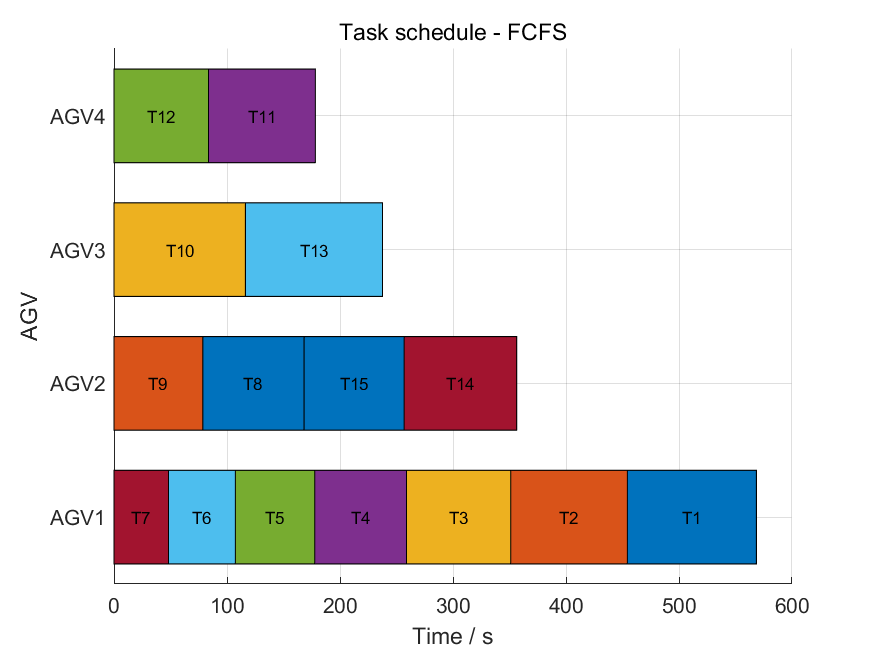
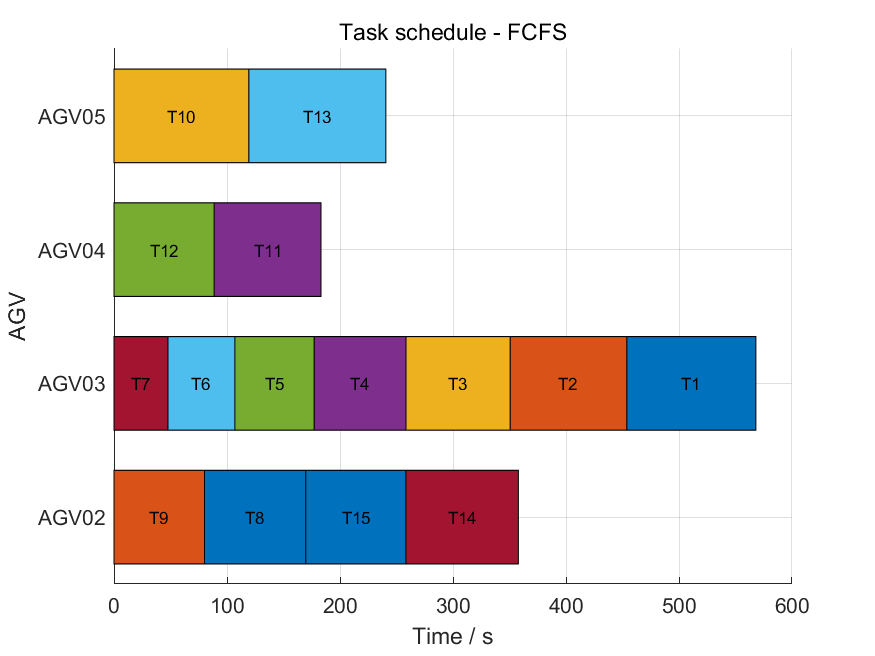
配置实际 AGV：02、03、04、05 的初始站点分别为 2、4、0、3；各车独立记录状态，任务分配表和图表显示实际编号。 清理提交内容：新增 .gitignore，过滤运行结果、日志和临时文件；取消 results/ 中 12 个文件的跟踪，本地文件保留。

diff --git a/simulator/simulateSchedule.m b/simulator/simulateSchedule.m
@@ -16,7 +16,7 @@ catch err
 end
 base=struct('ID',0,'CurrentStation',0,'AvailableTime',0,'TotalTravelDistance',0,'TotalBusyTime',0,'TaskHistory',[]);
 agvs=repmat(base,1,cfg.numAGV);
-for a=1:cfg.numAGV, agvs(a).ID=a; agvs(a).CurrentStation=cfg.agvInitialStations(a); end
+for a=1:cfg.numAGV, agvs(a).ID=cfg.agvIDs(a); agvs(a).CurrentStation=cfg.agvInitialStations(a); end
 completed=false(1,n);
 for t=result.finalSequence
  pred=constraints(constraints(:,2)==t,1);
@@ -43,5 +43,6 @@ result.totalDistance=result.emptyDistance+result.loadedDistance;
 result.totalPickDropTime=n*(cfg.pickTime+cfg.dropTime);
 result.agvs=agvs;
 if result.makespan>0, result.agvUtilization=[agvs.TotalBusyTime]/result.makespan; end
-result.taskTable=table(tasks.TaskID,tasks.PickupStation,tasks.DropoffStation,result.assignedAGV,result.taskStartTime,result.taskFinishTime,'VariableNames',{'TaskID','Pickup','Dropoff','AGV','StartTime','FinishTime'});
+result.assignedAGVID=reshape(cfg.agvIDs(result.assignedAGV),[],1);
+result.taskTable=table(tasks.TaskID,tasks.PickupStation,tasks.DropoffStation,compose('AGV%02d',result.assignedAGVID),result.taskStartTime,result.taskFinishTime,'VariableNames',{'TaskID','Pickup','Dropoff','AGV','StartTime','FinishTime'});
 end

diff --git a/data/validateInputData.m b/data/validateInputData.m
@@ -20,6 +20,7 @@ assert(numel(unique(key))==height(L),'AGV:DuplicateLaneSequence','Duplicate sequ
 report.uniqueStations=n; report.stationRows=height(s); report.pockets=numel(unique(L.PocketKey));
 report.nanCount=sum(isnan(D(:))); report.isolatedStations=marks(sum(isfinite(D),2)==1 & sum(isfinite(D),1)'==1);
 if nargin>=3
+ assert(numel(cfg.agvIDs)==cfg.numAGV && numel(unique(cfg.agvIDs))==cfg.numAGV && all(isfinite(cfg.agvIDs) & cfg.agvIDs>=0 & cfg.agvIDs==fix(cfg.agvIDs)),'AGV:Config','AGV IDs must be unique nonnegative integers, one per AGV.');
  assert(cfg.numAGV>=1 && cfg.numAGV==fix(cfg.numAGV) && numel(cfg.agvInitialStations)==cfg.numAGV,'AGV:Config','Invalid AGV configuration.');
  assert(all(ismember(cfg.agvInitialStations,marks)),'AGV:InitialStation','Unknown initial station.');
  assert(cfg.agvSpeed>0 && isfinite(cfg.agvSpeed) && cfg.meterPerUnit>0 && isfinite(cfg.meterPerUnit) && cfg.pickTime>=0 && isfinite(cfg.pickTime) && cfg.dropTime>=0 && isfinite(cfg.dropTime) && cfg.invalidCost>0 && isfinite(cfg.invalidCost),'AGV:Config','Invalid time, speed, scale or penalty.');

diff --git a/simulator/assignAGV.m b/simulator/assignAGV.m
@@ -1,5 +1,5 @@
 % Function: assignAGV
-% Purpose: Choose reachable AGV with earliest pickup arrival; tie by ID.
+% Purpose: Choose reachable AGV with earliest pickup arrival; tie by configured vehicle order.
 % Inputs: See function signature (main/config have no inputs).
 % Outputs: See function signature and README.
 %
@@ -13,7 +13,7 @@ for k=1:numel(agvs)
   arrival(k)=starts(k)+getTravelTime(distances(k),cfg);
  end
 end
-[value,id]=min(arrival); % Ties deterministically select lowest AGV ID.
+[value,id]=min(arrival); % Ties deterministically select first vehicle in configured order.
 if ~isfinite(value), id=0; startTime=NaN; emptyDistance=NaN; return; end
 startTime=starts(id); emptyDistance=distances(id);
 end

diff --git a/tests/runTests.m b/tests/runTests.m
@@ -22,6 +22,8 @@ L=data.lanes(data.lanes.StationType=="Slot" & data.lanes.PocketKey==tasks.Lane(1
 sparseTasks=tasks(1:2,:); sparseTasks.PickupStation=[L.StationMark(end);L.StationMark(1)];
 assert(isequal(buildLaneConstraints(sparseTasks,data.lanes),[2 1]));
 r=simulateSchedule(1:height(tasks),tasks,data,cfg); assert(r.isFeasible);
+assert(isequal([r.agvs.ID],cfg.agvIDs));
+assert(isequal(r.assignedAGVID,reshape(cfg.agvIDs(r.assignedAGV),[],1)));
 for edge=r.constraints'
  assert(r.taskStartTime(edge(2))>=r.taskFinishTime(edge(1))-1e-10);
 end

diff --git a/visualization/plotGanttChart.m b/visualization/plotGanttChart.m
@@ -12,6 +12,6 @@ for t=1:height(tasks)
  rectangle('Position',[start a-0.35 duration 0.7],'FaceColor',colors(t,:),'EdgeColor','k');
  text(start+duration/2,a,sprintf('T%g',tasks.TaskID(t)),'HorizontalAlignment','center','FontSize',8);
 end
-yticks(1:cfg.numAGV); yticklabels(compose('AGV%d',1:cfg.numAGV)); ylim([0.5 cfg.numAGV+0.5]);
+yticks(1:cfg.numAGV); yticklabels(compose('AGV%02d',cfg.agvIDs)); ylim([0.5 cfg.numAGV+0.5]);
 xlabel('Time / s'); ylabel('AGV'); title(['Task schedule - ' label]); grid on;
 end

diff --git a/visualization/plotAGVUtilization.m b/visualization/plotAGVUtilization.m
@@ -6,5 +6,5 @@
 % Notes: Directed distances and NaN are preserved; algorithms remain separate.
 function fig = plotAGVUtilization(result,cfg,label)
 fig=figure('Name',['Utilization - ' label]); bar(1:cfg.numAGV,100*result.agvUtilization);
-xticks(1:cfg.numAGV); xticklabels(compose('AGV%d',1:cfg.numAGV)); ylabel('Utilization / %'); ylim([0 100]); title(label); grid on;
+xticks(1:cfg.numAGV); xticklabels(compose('AGV%02d',cfg.agvIDs)); ylabel('Utilization / %'); ylim([0 100]); title(label); grid on;
 end

diff --git a/config.m b/config.m
@@ -11,7 +11,8 @@ cfg.agvSpeed = 1.0;
 cfg.pickTime = 5;
 cfg.dropTime = 5;
 cfg.numAGV = 4;
-cfg.agvInitialStations = [6 6 6 6]; % USER CONFIGURATION REQUIRED
+cfg.agvIDs = [2 3 4 5]; % Actual vehicle IDs: AGV02, AGV03, AGV04, AGV05
+cfg.agvInitialStations = [2 4 0 3]; % Same order as agvIDs
 cfg.randomSeed = 1;
 cfg.invalidCost = 1e12;
 cfg.enablePlots = true;

diff --git a/results/acceptance_report.md b/results/acceptance_report.md
@@ -1,6 +1,6 @@
 # MATLAB 实际运行验收报告
 
-运行环境：MATLAB R2022a；2026-10-08。main.m 已成功运行，所有调度 invariant 测试通过，退出码 0。运行输出无 warning/error。原始四个数据文件 SHA-256 核对无变化（results/source_hashes.json）。
+运行环境：MATLAB R2022a；2026-10-09。main.m 已成功运行，所有调度 invariant 测试通过，退出码 0。运行输出无 warning/error。原始四个数据文件 SHA-256 核对无变化（results/source_hashes.json）。
 
 ## 数据及建模验收
 - 145 个唯一站点，154 条站点/Pocket membership。
@@ -11,39 +11,39 @@
 - 固定 earliest pickup arrival 分车；前置任务 Drop 完成后后续任务才能开始。
 - 两张甘特图与两张利用率图成功生成并人工视觉检查。
 - 单位换算 0.01 m/unit 是用户指定假设，元数据仍标未校准。
-- AGV 初始站点 [6 6 6 6] 需按正式实验修改。
+- 实际车辆：AGV02→2、AGV03→4、AGV04→0、AGV05→3。
 
 ## 结果
 |算法|Makespan / s|Total distance / m|
 |---|---:|---:|
-|FCFS|568.54|1190.72|
-|Random（seed=1）|568.54|1190.72|
+|FCFS|568.04|1199.70|
+|Random（seed=1）|570.04|1199.70|
 
 FCFS 修复后任务优先顺序：7 6 5 4 3 2 1 9 8 10 12 11 13 15 14。
 Random 修复后任务优先顺序：15 7 6 5 13 4 3 9 8 10 12 11 2 1 14。
 这里的顺序是调度优先列表；多车实际开始/完成时间可以交错。
-两基线工期相同：长巷道任务链 T7 -> T6 -> T5 -> T4 -> T3 -> T2 -> T1 决定总工期；示例只用于正确性验证，不能据此断言算法性能相同。
+初始位置不同后两基线工期已有差异；示例仍只用于程序验证。
 
 ## 任务分配
 |TaskID|Pickup|Dropoff|FCFS AGV|Random AGV|
 |---:|---:|---:|---:|---:|
-|1|85|6|1|1|
-|2|63|6|1|1|
-|3|16|6|1|1|
-|4|139|6|1|1|
-|5|134|6|1|1|
-|6|129|6|1|2|
-|7|12|6|1|2|
-|8|8|6|2|4|
-|9|32|6|2|4|
-|10|10|6|3|2|
-|11|19|6|4|3|
-|12|15|6|4|3|
-|13|21|6|3|3|
-|14|25|6|2|4|
-|15|24|6|2|1|
+|1|85|6|AGV03|AGV02|
+|2|63|6|AGV03|AGV02|
+|3|16|6|AGV03|AGV02|
+|4|139|6|AGV03|AGV02|
+|5|134|6|AGV03|AGV02|
+|6|129|6|AGV03|AGV02|
+|7|12|6|AGV03|AGV02|
+|8|8|6|AGV02|AGV04|
+|9|32|6|AGV02|AGV04|
+|10|10|6|AGV05|AGV03|
+|11|19|6|AGV04|AGV03|
+|12|15|6|AGV04|AGV05|
+|13|21|6|AGV05|AGV05|
+|14|25|6|AGV02|AGV04|
+|15|24|6|AGV02|AGV03|
 
-各任务 StartTime、FinishTime 详见 results/fcfs_tasks.csv 和 results/random_tasks.csv。完整 MATLAB 输出保存在 results/matlab_verified.log；MAT 结果保存在 results/simulation_results.mat。
+各任务 StartTime、FinishTime 详见 results/fcfs_tasks.csv 和 results/random_tasks.csv。完整 MATLAB 输出保存在 results/matlab_agv_ids.log；MAT 结果保存在 results/simulation_results.mat。
 
 ## 验证范围
 实际数据规模、孤立节点、距离方向性、单位换算；稳定拓扑修复、重复/缺失任务与环；缺失中间 Slot 不阻塞；前置完成时间；AGV 不重叠；独立任务并行开始；busy time 和利用率；loaded/empty 不可达返回 invalidCost。
